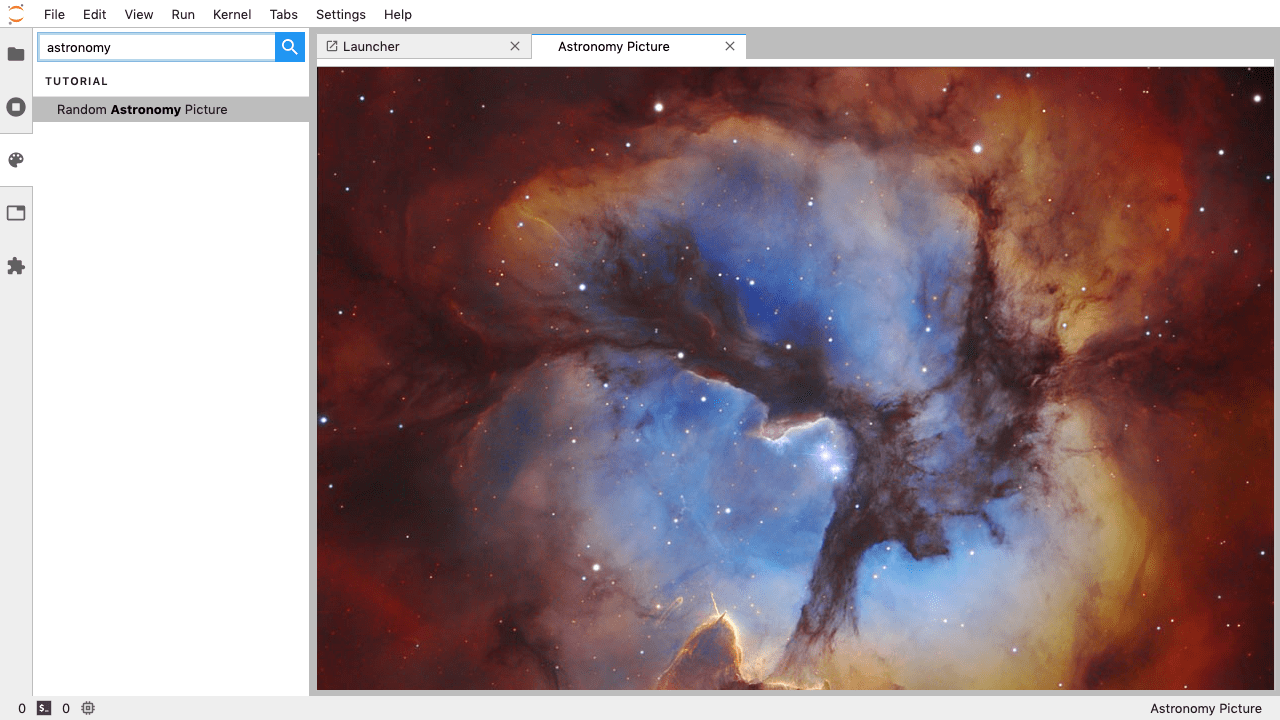
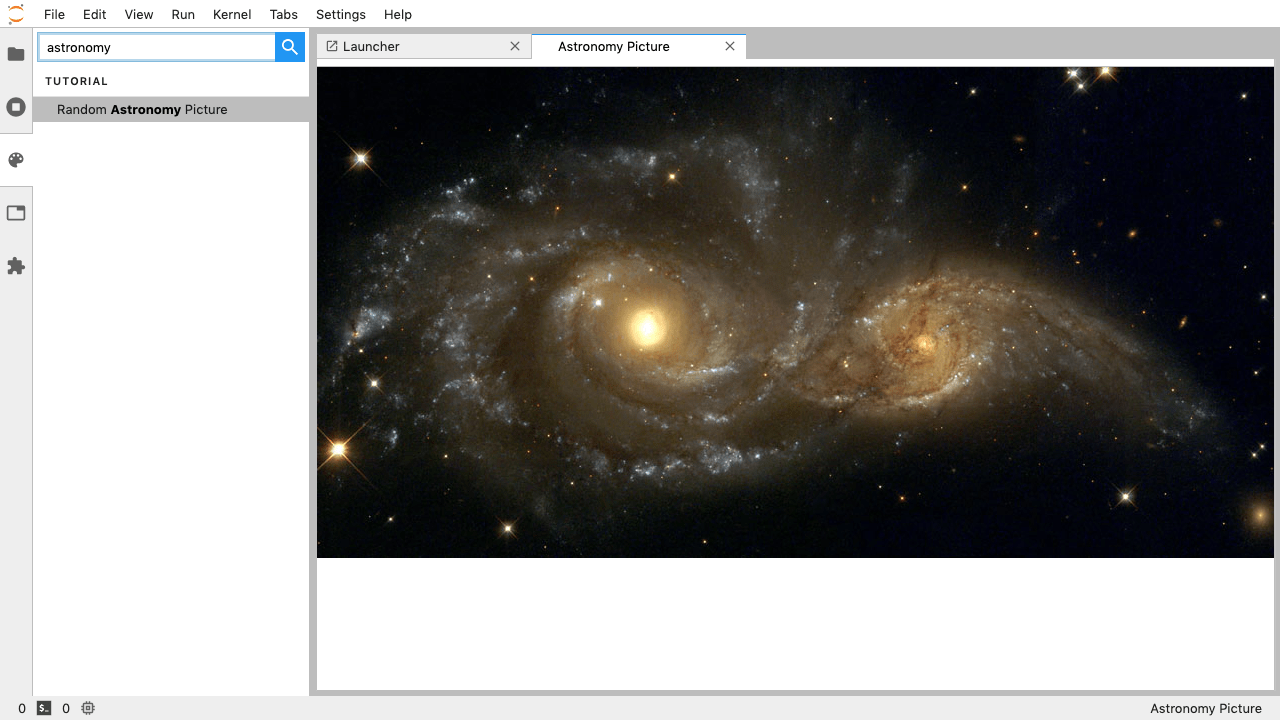
Change the extension tutorial single screenshot to one that we can credit better in a caption.

diff --git a/docs/source/developer/extension_tutorial.rst b/docs/source/developer/extension_tutorial.rst
@@ -439,6 +439,8 @@ video).
    :align: center
    :class: jp-screenshot
 
+   The in-progress extension, showing the `Astronomy Picture of the Day for 19 Jan 2014 <https://apod.nasa.gov/apod/ap140119.html>`__.
+
 Note that the image is not centered in the panel nor does the panel
 scroll if the image is larger than the panel area. Also note that the
 image does not update no matter how many times you close and reopen the
